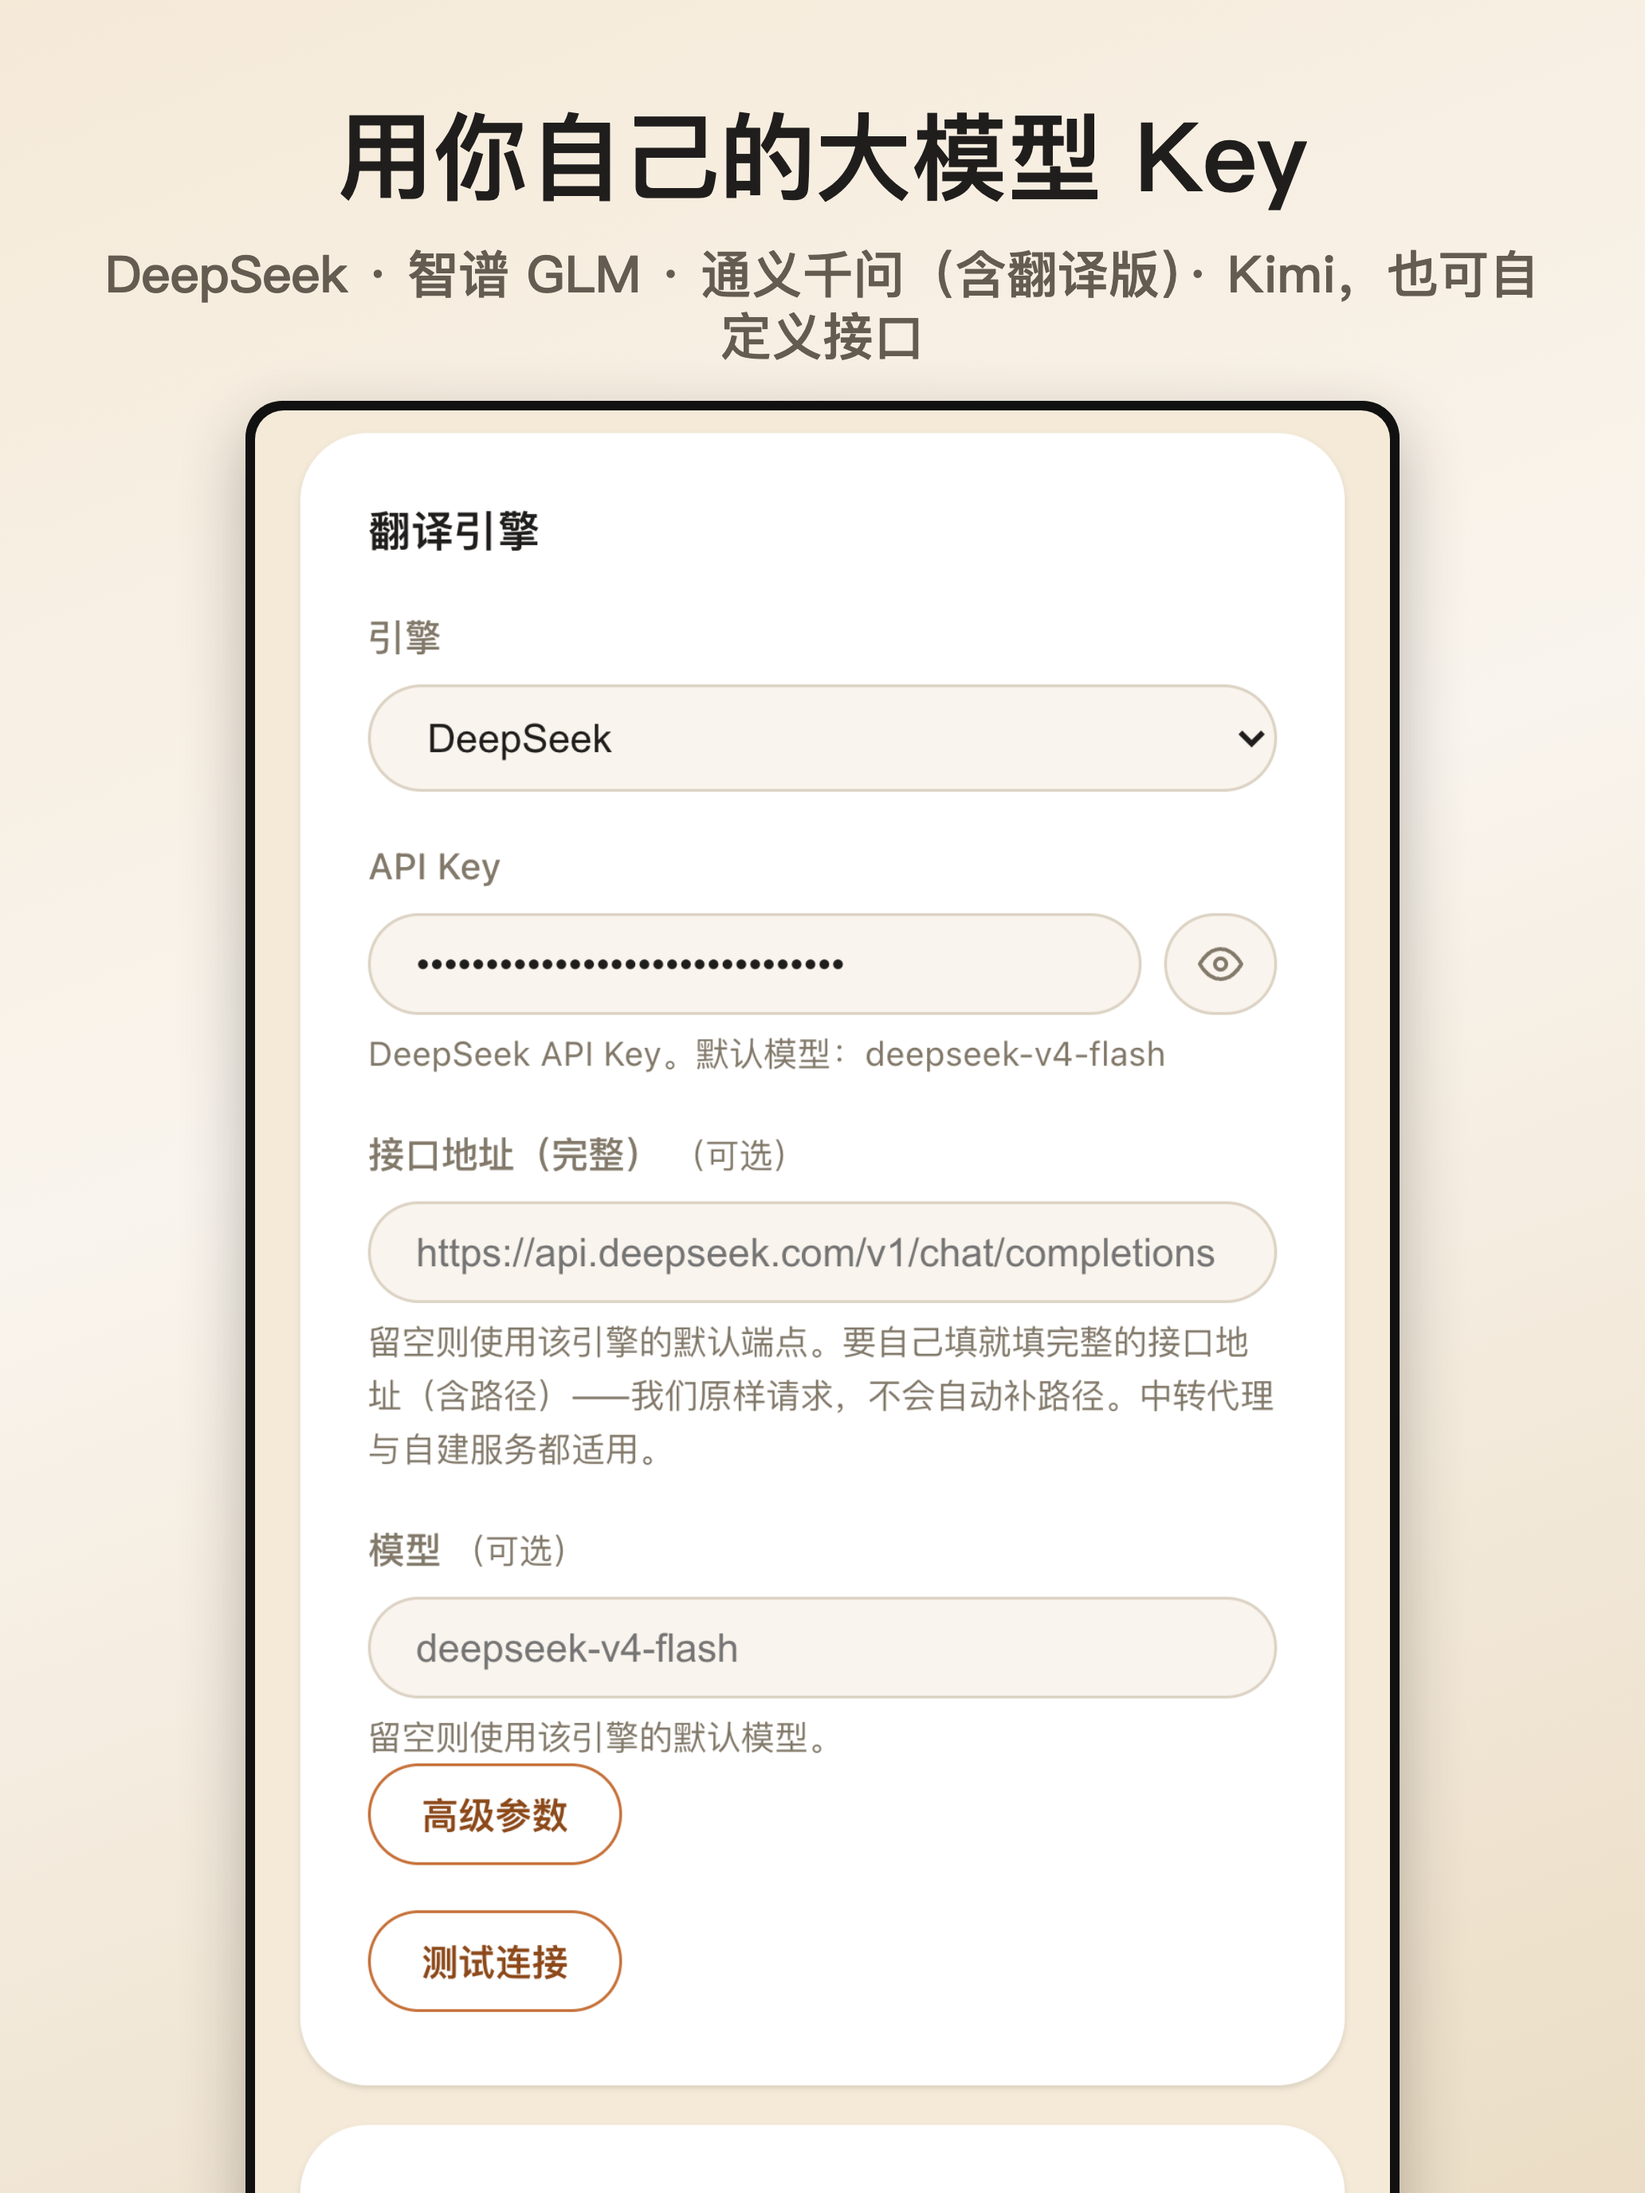
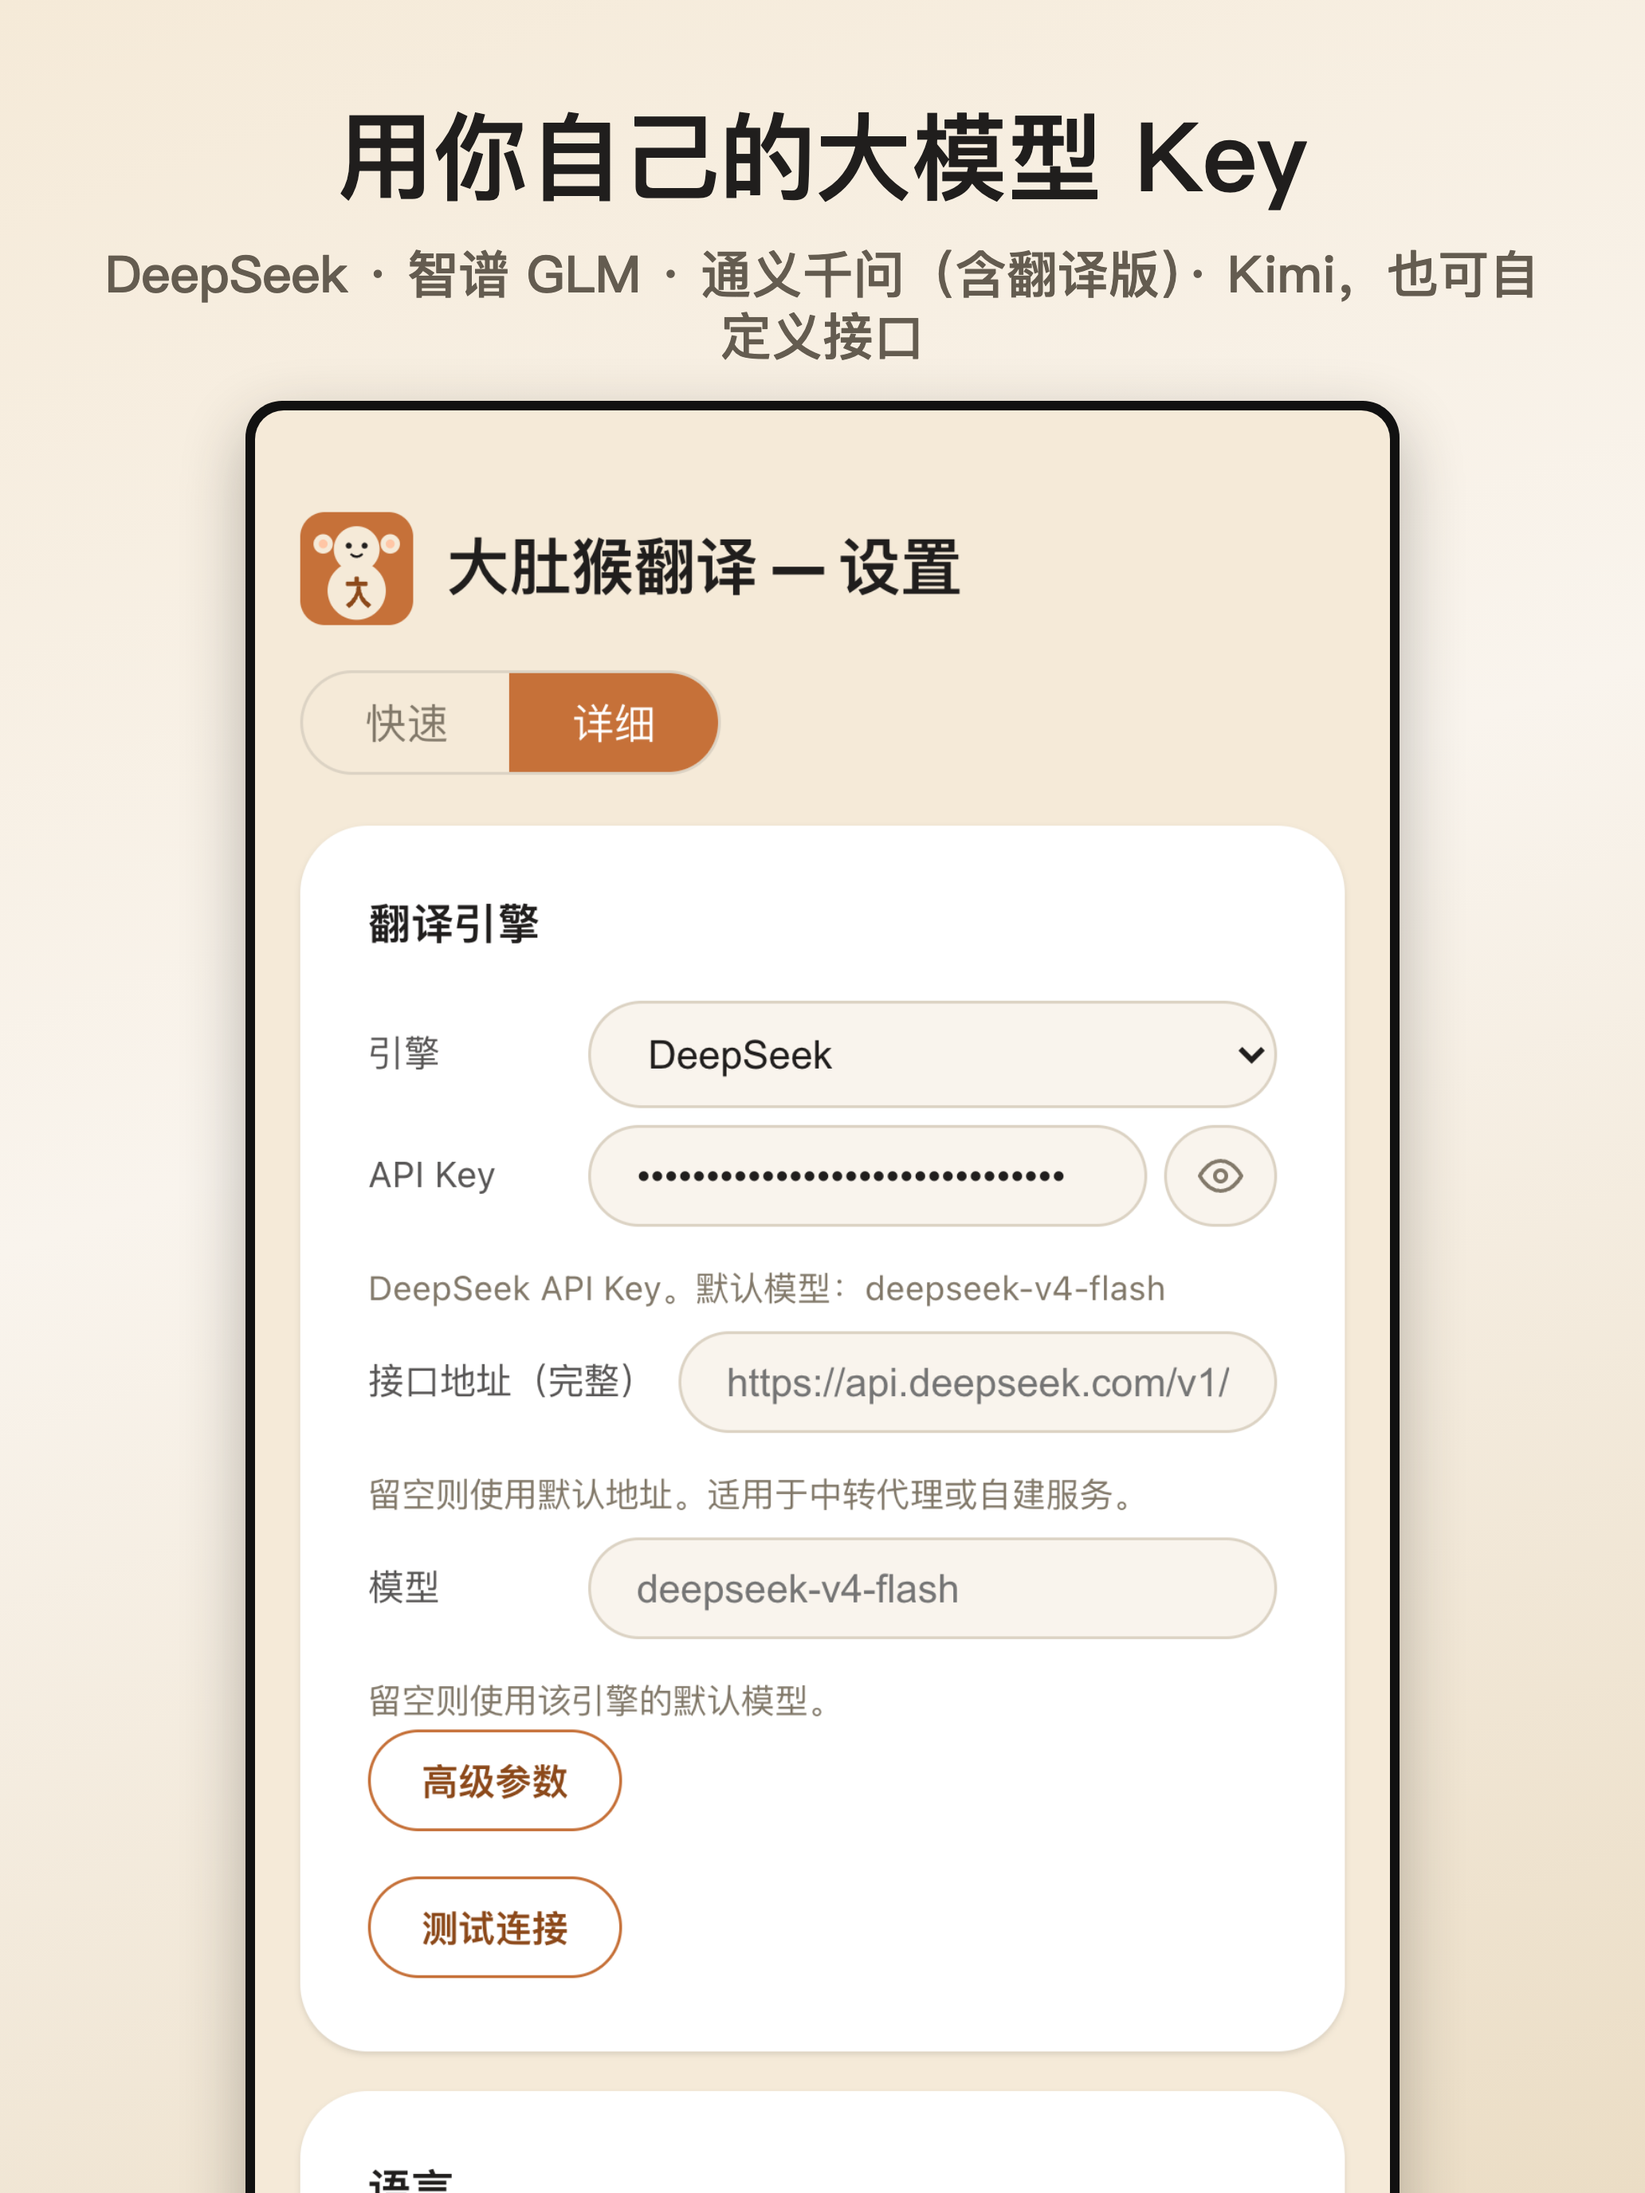
chore(store): 素材过时审计 —— 重拍 4 张 + 补一张讲 1.7 主角的
审计按 assets.md 的五条判据逐张过，不只比日期。11 个文件里直接看了 7 个。

**命中判据、必须重拍的四张：**
· ~/belliedmonkey-cc/media/shot-review.png —— 判据②印着作者真实邮箱 + 判据④用的是
  早已删掉的「大数字」版式。**它正挂在官网首页**，挂了三周。
· ~/belliedmonkey-cc/media/shot-translate.png —— 判据①两处「⏳ 翻译中…」，静态图在
  演示一个没翻完的产品。同样正挂在首页。（正是当年废掉旧 f1 的那条判据）
· screenshots-cn/src/assets/cn-desk-engine.png + cn-options-engine.png —— 判据④：
  设置页现在是「快速 / 详细」两档、默认落在一键配置卡，图里连 tab 都没有。

**真因**：官网那两张其实是 store-assets 合成器出的 en-web-1 / en-web-4，08-16 拷过去
的，而原料 08-22 就重拍过 —— **拷贝没有留下来源，就没有人会想到去更新它**。所以这次
把那条管线写进了 media/src/README.md，连同它这次的代价。

**不过时的别动**（f1-article / f2-video / f4 卡片 / cn-options-learn / 两个 demo
视频）—— 判据⑤明说日期只是线索。demo 视频中途出现「翻译中」在动图里是合理的，它在
演示翻译发生的过程，且结尾停在当前的 YouTube 双字幕。

**新增第 6 帧**：前五帧讲的都是「配好之后能干什么」，而新用户的第一个问题是「要配
多久」。1.7 的主角（一把 key 配好三样）此前一张商店图都没有 —— 图与发布说明说的不是
一件事。f6-onboard.png 按 402×874@3x 拍，与 f3/f4 逐像素同规格：第一版给了 603×1311pt
的视口，#ob-foot 是 sticky 的，视口一高按钮就贴在内容下面而不是屏幕底部，那不是用户
看到的样子。

产物：全球 49 张（原 41 + 第 6 帧 8 张）、中国版 12 张全部重出。

Claude-Session: https://claude.ai/code/session_01TrK7Xn3wP2JMqhx6CQ5Szw

diff --git a/store-assets/src/scene.html b/store-assets/src/scene.html
@@ -67,6 +67,9 @@ const COPY = {
     3: ['读过的句子，自动变成复习卡', '快速滚过的不算——只留下你真正读过的'],
     4: ['手机上复习', '读 · 听 · 写 三档 + 句子解析 + 朗读'],
     5: ['电脑上读，手机上复习', '翻译与学习，一个闭环'],
+    // 6：1.7 的主角。前五帧讲的都是「配好之后能干什么」，而新用户的第一个问题是
+    // 「要配多久」——这一帧回答它：一把 key，三样一起配好。
+    6: ['一把 key，三样一起配好', '翻译、朗读、转写 —— 填完当场自检，不用等到翻第一页'],
   },
   en: {
     1: ['Browse like you always do', 'Original and translation, side by side'],
@@ -74,6 +77,7 @@ const COPY = {
     3: ['Sentences you read become review cards', 'Only what you actually read — skimming doesn\'t count'],
     4: ['Review on your phone', 'Read · Listen · Write + sentence notes + read-aloud'],
     5: ['Read on your computer, review on your phone', 'Translation and learning, one loop'],
+    6: ['One key sets up all three', 'Translate, read aloud, transcribe — tested on the spot, before your first page'],
   },
 };
 const [big, sub] = COPY[lang][f];
@@ -94,6 +98,7 @@ if (f === '1') stage.innerHTML = mac('assets/f1-article.png');
 else if (f === '2') stage.innerHTML = mac('assets/f2-video.png');
 else if (f === '3') stage.innerHTML = `<div style="display:flex;gap:4%;align-items:center;justify-content:center;height:100%">${phone('assets/f4-phone-card.png')}</div>`;
 else if (f === '4') stage.innerHTML = `<div style="display:flex;gap:4%;align-items:center;justify-content:center;height:100%">${phone('assets/f3-phone-stats.png')}</div>`;
+else if (f === '6') stage.innerHTML = `<div style="display:flex;gap:4%;align-items:center;justify-content:center;height:100%">${phone('assets/f6-onboard.png')}</div>`;
 else if (f === '5') {
   if (portrait) {
     stage.innerHTML = `<div style="display:flex;flex-direction:column;align-items:center;gap:2%;height:100%;width:100%;justify-content:center">
@@ -108,7 +113,7 @@ else if (f === '5') {
 }
 
 // 竖版（手机截图）时限制 phone 宽度
-if (portrait && (f === '3' || f === '4')) {
+if (portrait && (f === '3' || f === '4' || f === '6')) {
   document.querySelectorAll('.phone').forEach((p) => { p.style.width = '78%'; });
 }
 </script>
